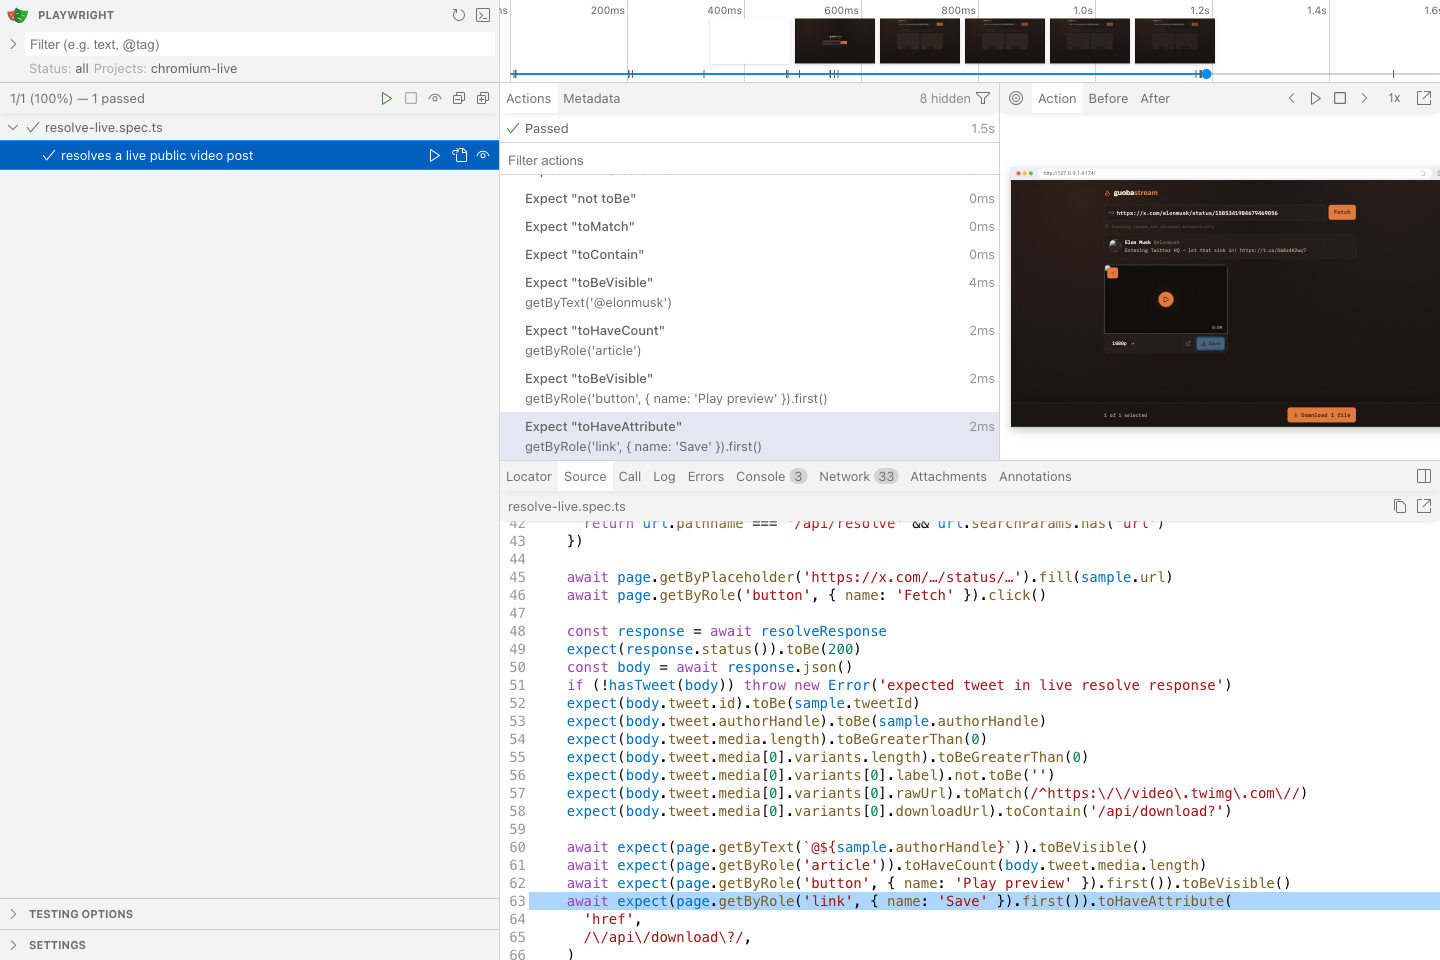
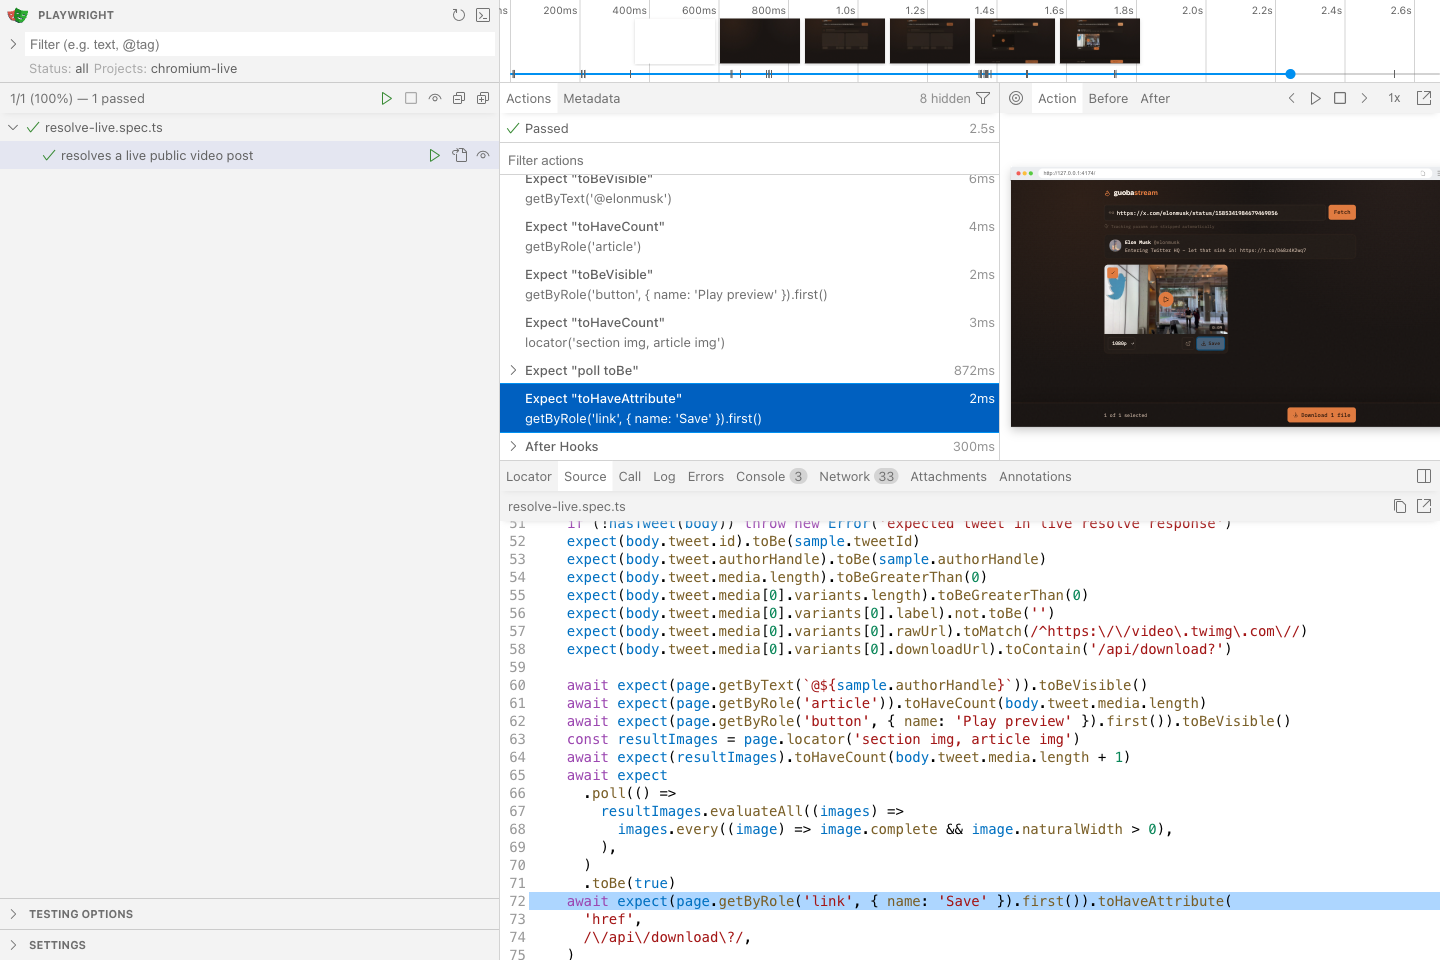
test(guoba-stream): wait for live images

diff --git a/apps/guoba-stream/e2e-live/resolve-live.spec.ts b/apps/guoba-stream/e2e-live/resolve-live.spec.ts
@@ -60,6 +60,15 @@ for (const sample of SAMPLES) {
     await expect(page.getByText(`@${sample.authorHandle}`)).toBeVisible()
     await expect(page.getByRole('article')).toHaveCount(body.tweet.media.length)
     await expect(page.getByRole('button', { name: 'Play preview' }).first()).toBeVisible()
+    const resultImages = page.locator('section img, article img')
+    await expect(resultImages).toHaveCount(body.tweet.media.length + 1)
+    await expect
+      .poll(() =>
+        resultImages.evaluateAll((images) =>
+          images.every((image) => image.complete && image.naturalWidth > 0),
+        ),
+      )
+      .toBe(true)
     await expect(page.getByRole('link', { name: 'Save' }).first()).toHaveAttribute(
       'href',
       /\/api\/download\?/,
